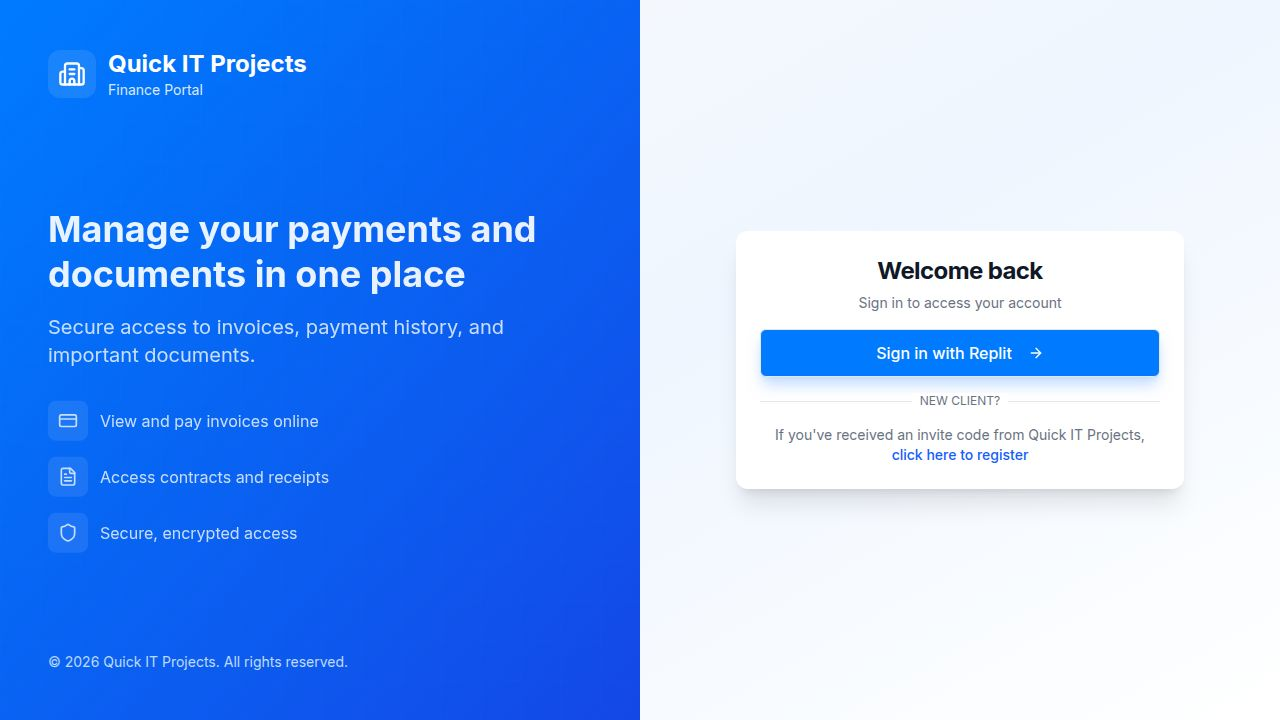
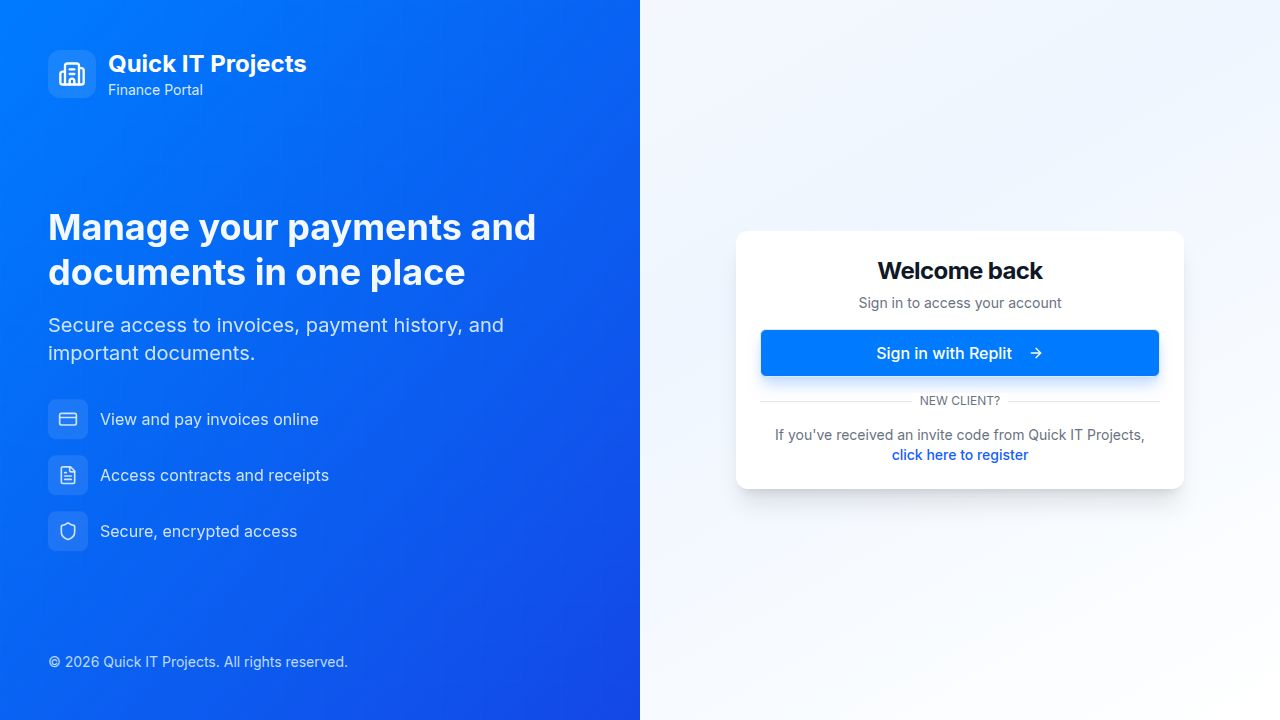
Update Stripe checkout to use dynamic redirect URLs
Dynamically generate Stripe checkout success and cancel URLs based on incoming request headers to ensure correct redirection to the originating domain.

Replit-Commit-Author: Agent
Replit-Commit-Session-Id: aadfc205-d336-4831-8e96-5727d8b23cbe
Replit-Commit-Checkpoint-Type: full_checkpoint
Replit-Commit-Event-Id: b3c9de1a-0983-4825-ba59-3a91f97567dc
Replit-Commit-Screenshot-Url: https://storage.googleapis.com/screenshot-production-us-central1/55294787-0b14-4f33-8971-a9de7f340fb0/aadfc205-d336-4831-8e96-5727d8b23cbe/gYA3FCT
Replit-Helium-Checkpoint-Created: true

diff --git a/server/routes.ts b/server/routes.ts
@@ -2626,10 +2626,18 @@ export async function registerRoutes(
 
         const stripe = new Stripe(secretKey);
 
-        // Determine the base URL for redirects
-        const baseUrl = process.env.REPL_SLUG
-          ? `https://${process.env.REPL_SLUG}.${process.env.REPL_OWNER?.toLowerCase()}.repl.co`
-          : `http://localhost:${process.env.PORT || 5000}`;
+        // Determine the base URL dynamically from the incoming request
+        const proto = req.headers["x-forwarded-proto"] || req.protocol || "https";
+        const host = req.headers["host"] || req.get("host") || "localhost:5000";
+        const baseUrl = `${proto}://${host}`;
+        
+        const successUrl = `${baseUrl}/client/payments?success=1&session_id={CHECKOUT_SESSION_ID}`;
+        const cancelUrl = `${baseUrl}/client/payments?canceled=1`;
+        
+        // Log for debugging
+        console.log("[Stripe Checkout] Derived baseUrl:", baseUrl);
+        console.log("[Stripe Checkout] success_url:", successUrl);
+        console.log("[Stripe Checkout] cancel_url:", cancelUrl);
 
         // Create Stripe Checkout Session
         const session = await stripe.checkout.sessions.create({
@@ -2656,8 +2664,8 @@ export async function registerRoutes(
             note: note || "",
           },
           customer_email: client.email || undefined,
-          success_url: `${baseUrl}/client/payments?success=1&session_id={CHECKOUT_SESSION_ID}`,
-          cancel_url: `${baseUrl}/client/payments?canceled=1`,
+          success_url: successUrl,
+          cancel_url: cancelUrl,
         });
 
         res.json({ 